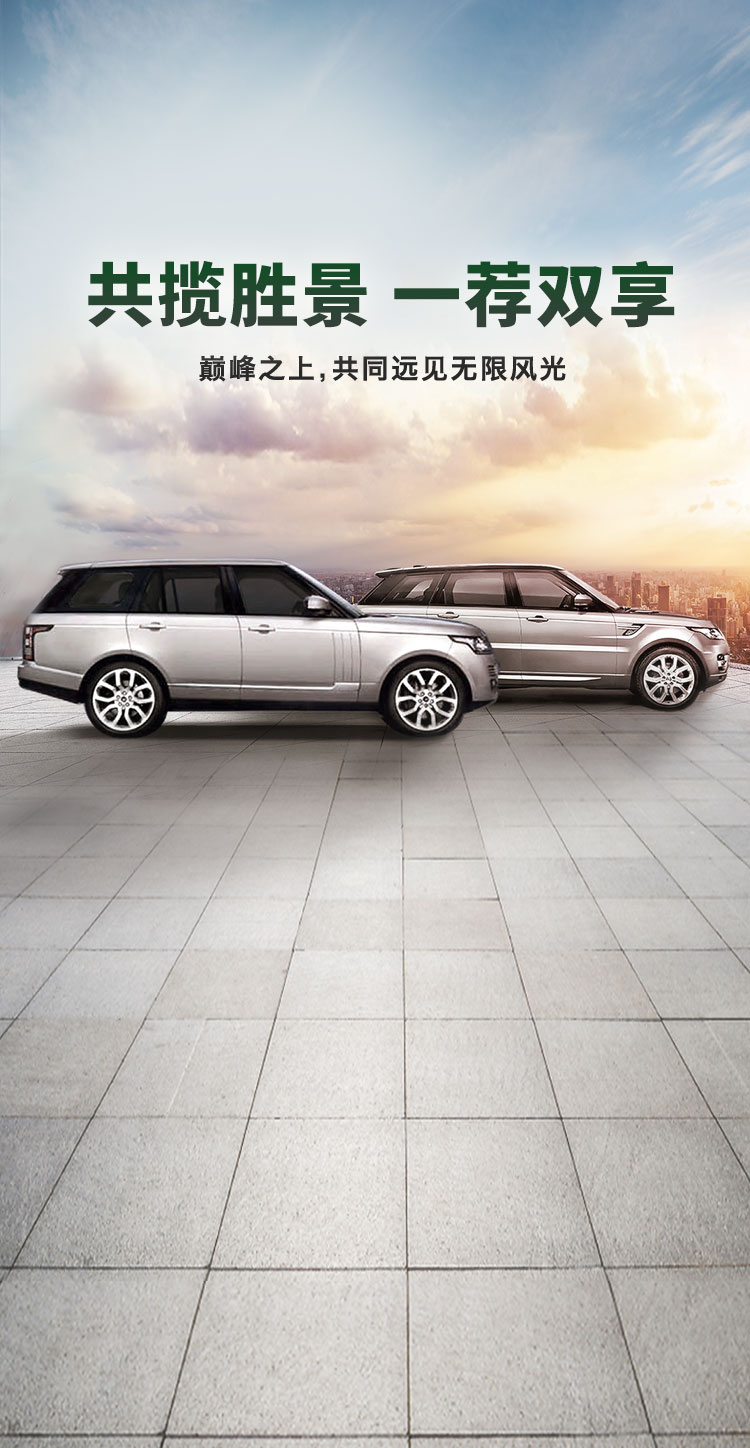
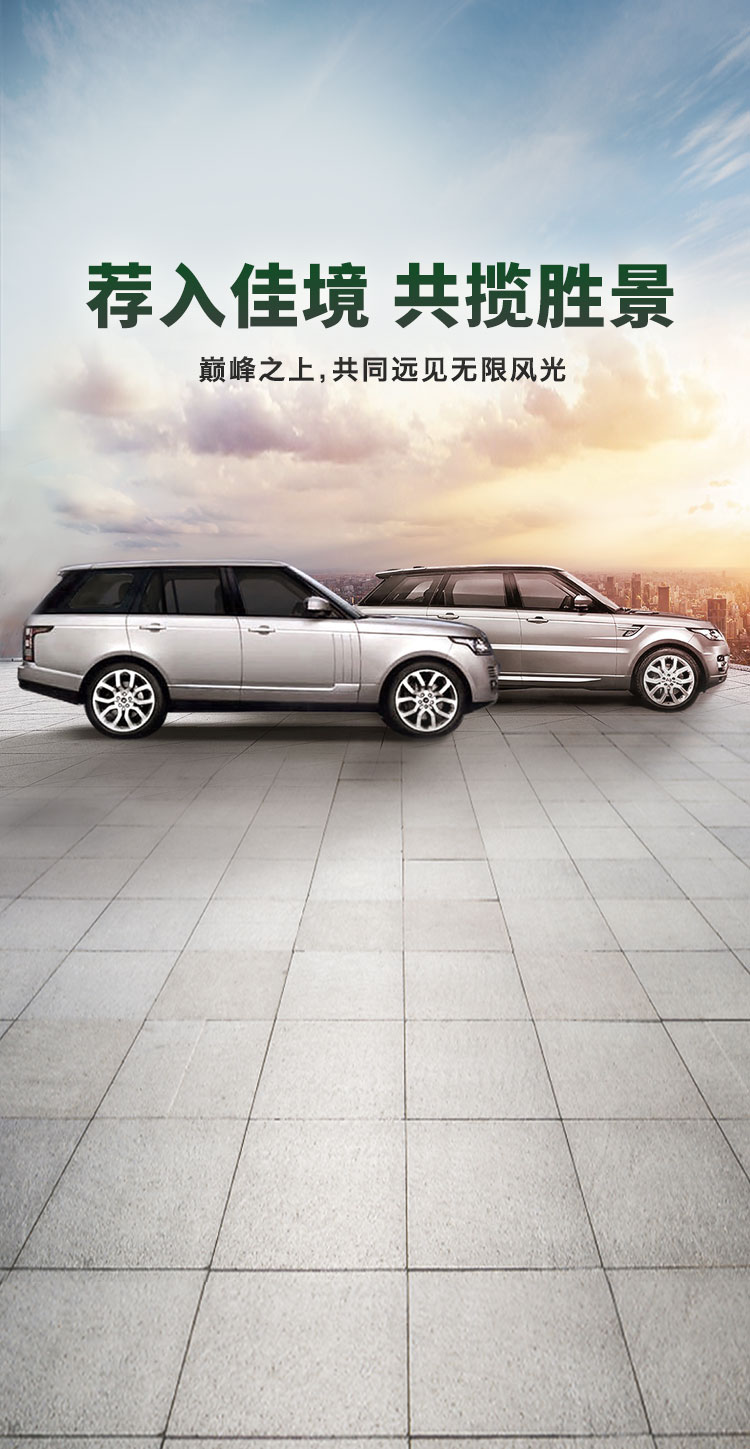
1

diff --git a/assets/css/base.css b/assets/css/base.css
@@ -78,9 +78,9 @@ html, body{width: 750px; height: 100%; margin: 0 auto; overflow: hidden;font-siz
 .logo{position: absolute;top:27px;right:35px;z-index: 8;}
 .index-tit{color: #545454;line-height: 36px;padding-bottom: 25px;text-shadow: 0 0 51px rgba(255,244,208,0.75);}
 .index-btn{width: 390px;height: 82px;margin-bottom: 15px;}
-.rule-box{position: relative;margin-top: 30px;}
-.rule-box::before{content: '';height: 2px;width: 100%;top:50%;background: #a6937c;left:0;position: absolute;opacity: 0.6;}
-.rule{width: 210px;height: 42px;line-height: 42px;font-size: 22px;background: #a6937c;border-radius: 50px;color: #fff;position: relative;z-index: 1;}
+.rule-box{position: relative; padding: 15px 0;}
+/*.rule-box::before{content: '';height: 2px;width: 100%;top:50%;background: #a6937c;left:0;position: absolute;opacity: 0.6;}*/
+.rule{ display: inline-block; width: 210px;height: 42px;line-height: 42px;font-size: 22px;background: #a6937c;border-radius: 50px;color: #fff;position: relative;z-index: 1;}
 /*表单*/
 .form{ width: 580px;text-align: left;color: #333;}
 .form-tit{font-size: 34px;color: #333;padding: 120px 0 50px;font-weight: bold;position: relative;}
@@ -88,13 +88,15 @@ html, body{width: 750px; height: 100%; margin: 0 auto; overflow: hidden;font-siz
 .form-list{border:1px solid #848484;}
 .form-list label{width: 110px; min-width: 110px;font-style: normal;margin-left: 20px;}
 .form-list i{width: 70px; min-width: 70px;text-align: center;}
-.form-box{width: 100%;  padding:5px 20px 5px 0;}
+.form-box{ position: relative; width: 100%;  padding:5px 20px 5px 0;}
 .input-text{width: 100%; height: 70px; line-height: 70px;color: #333; font-size: 24px;background: transparent;font-family: "labold";}
-/*.input-text::-webkit-input-placeholder{color: #0c121c;}*/
+.input-text::-webkit-input-placeholder{color: #ccc;}
 .opt label{width: 120px;min-width: 120px;}
 .opt .form-box{position: relative; background: url(../images/icon-2.png) no-repeat right center; padding-right: 65px;}
-.opt span{display: block; width: 100%; height: 70px; color: #333; line-height: 70px; overflow: hidden;font-family: "labold";}
-.opt select{position: absolute; top:0; left: 0; width: 100%; height: 100%; opacity: 0;}
+.opt span , .file span{display: block; width: 100%; height: 70px; color: #333; line-height: 70px; overflow: hidden;font-family: "labold";}
+.file span{color: #ccc;}
+.opt select , .file input{position: absolute; top:0; left: 0; width: 100%; height: 100%; opacity: 0;}
+.file input{opacity: 0;}
 .form-checkbox{position: relative; padding-left: 30px; color: #333; font-size: 20px;}
 .form-checkbox:before{position: absolute; top:2px; left: 0; width: 20px; height: 20px;  border:1px solid #0c121c;content: "";}
 .form-checkbox.active:before{background: url("../images/icon-3.png") no-repeat center center;}
@@ -103,18 +105,16 @@ html, body{width: 750px; height: 100%; margin: 0 auto; overflow: hidden;font-siz
 .form-push{margin-top: 80px;}
 .btn{display: block; width: 300px; height: 80px; color: #fff; font-size: 28px; font-weight: bold; text-align: center; line-height: 80px; background: #0c121c;}
 .split .form-list{width: 48%;}
-.sendbtn{background: url("../images/send.jpg") no-repeat;width: 142px;min-width: 142px;height: 56px;color: #fff;display: inline-block;margin-right: 20px;font-size: 20px;}
+.sendbtn{background:#686f71;width: 142px;min-width: 142px;height: 56px;color: #fff;display: inline-block;margin-right: 20px;font-size: 20px;}
 .sendbtn.dis{background: #686f71;}
 .form-list.disabled{background: #e5e5e5;}
 .form-list.disabled .input-text{font-family: "labold";letter-spacing: 5px;}
-.file i{position: relative;}
-.file input[type="file"]{position: absolute;top:0;left:0;width: 100%;height:100%;opacity: 0;}
 /*.be-referee .form , .be-referee .form-tit , .be-referee .input-text , .be-referee .form-checkbox , .be-referee .form-checkbox a{color: #fff;}*/
 /*.be-referee .form-list , .be-referee .form-checkbox:before{border:1px solid #fff;}*/
 /*.be-referee .btn{color: #0c121c;background: #fff;}*/
 /*.be-referee .sendbtn{background: #6e6d6c;color: #fcfcfc;}*/
 /*弹框*/
-.bomb-wrapper{position: fixed; top:0; left: 50%;z-index: 99; width: 750px; height: 100%; margin-left: -375px; background: rgba(0,0,0,.7);padding-top: 230px;}
+.bomb-wrapper{position: fixed; top:0; left: 50%;z-index: 99; width: 750px; height: 100%; margin-left: -375px; background: rgba(0,0,0,.7);}
 .bomb-content{position: relative; width: 630px; background: #fff; border-radius: 20px;overflow: hidden;}
 .bomb-content .form{width: 500px;padding: 75px 0 110px;}
 .bomb-content .form-push{margin-top: 120px;}
@@ -139,3 +139,15 @@ html, body{width: 750px; height: 100%; margin: 0 auto; overflow: hidden;font-siz
 .info-page .form-list label{margin-left: 0;}
 .info-page .form .input-text ,.info-page .form span{text-align: right;}
 /*input[disabled]{color:#333;opacity:1}*/
+
+
+/*add*/
+.hint{padding: 75px 90px;}
+.hint-word{ padding-top: 100px; color: #0c121c; font-size: 30px; line-height: 46px;}
+#rule .pop-tit{border-bottom: 0;}
+.rule-inner{padding: 45px 64px;}
+.rule-inner .form-push{margin-top: 60px;}
+.rule-word{color: #0c121c; font-size: 26px; line-height: 36px;}
+.rule-word dt{font-size: 30px; font-weight: bold;}
+.rule-word dt:not(:first-child){margin-top: 20px;}
+.ss .form-tit{padding-top: 0; }

diff --git a/assets/js/main.js b/assets/js/main.js
@@ -25,6 +25,10 @@ $(function () {
         $('.bomb-wrapper').addClass('hide');
     });
 
+    $('.gz').on('click',function () {
+        $('#rule').removeClass('hide');
+    });
+
     window.alert = function(name){
         var iframe = document.createElement("IFRAME");
         iframe.style.display="none";

diff --git a/application/views/index/index.php b/application/views/index/index.php
@@ -40,6 +40,38 @@
         </div>
     </div>
 </div>
+<div class="bomb-wrapper flex center jc hide" id="hint">
+    <div class="bomb-content">
+        <div class="hint auto">
+            <div class="hint-word">
+                您还未成为路虎推荐购活动推荐人，请点击“我要推荐”报名参与活动。
+            </div>
+            <div class="form-push">
+                <input type="button" value="我 要 推 荐" class="btn auto">
+            </div>
+        </div>
+        <div class="close"><img src="images/icon-4.png" alt=""></div>
+    </div>
+</div>
+<div class="bomb-wrapper flex center jc hide" id="rule">
+    <div class="bomb-content">
+        <div class="pop-tit ta-c">活 动 规 则</div>
+        <div class="rule-inner">
+            <dl class="rule-word">
+                <dt>活动介绍：</dt>
+                <dd>活动期间，路虎车主可通过活动链接推荐其亲友购车，若亲友成功购买路虎揽胜、路虎揽胜运动版，双方均可赢取丰厚大礼。</dd>
+                <dt>活动时间： </dt>
+                <dd>即日起至2019年2月28日</dd>
+                <dt>活动对象：</dt>
+                <dd>活动前通过路虎官方授权经销商购买一辆及以上路虎车辆，且目前仍然拥有该车辆的路虎车主。</dd>
+            </dl>
+            <div class="form-push">
+                <input type="button" value="我 已 阅 读" class="btn auto" id="agree">
+            </div>
+        </div>
+        <div class="close"><img src="images/icon-4.png" alt=""></div>
+    </div>
+</div>
 <script type="text/javascript">
     $(function(){
         $('#sub').click(function(){

diff --git a/application/views/invite/share.php b/application/views/invite/share.php
@@ -15,7 +15,7 @@
 <script type="text/javascript">
     $(document).ready(function(){
         wx.config({
-            debug: false,
+            debug: true,
             appId: "<?= $wx['appId']; ?>",
             timestamp: "<?= $wx['timestamp']; ?>",
             nonceStr: "<?= $wx['nonceStr']; ?>",
@@ -52,9 +52,9 @@
 
 
             var data = {
-                title: '发现隐秘之门', // 分享标题
+                title: '荐入佳境 共揽胜景', // 分享标题
                 link: "<?php echo isset($wx_url) ? $wx_url : site_url('Invite', 'share') . '?invite_code=' . $invite_code; ?>", // 分享链接
-                desc:'路虎发现与松赞文旅邀您角逐最具号召力体验官，获取神秘大礼。',
+                desc:'您的好友正在邀请您参与路虎推荐购活动。',
                 imgUrl: "<?= $qr_code_img ?>", // 分享图标
                 success: function () {
                     //alert('操作成功');
